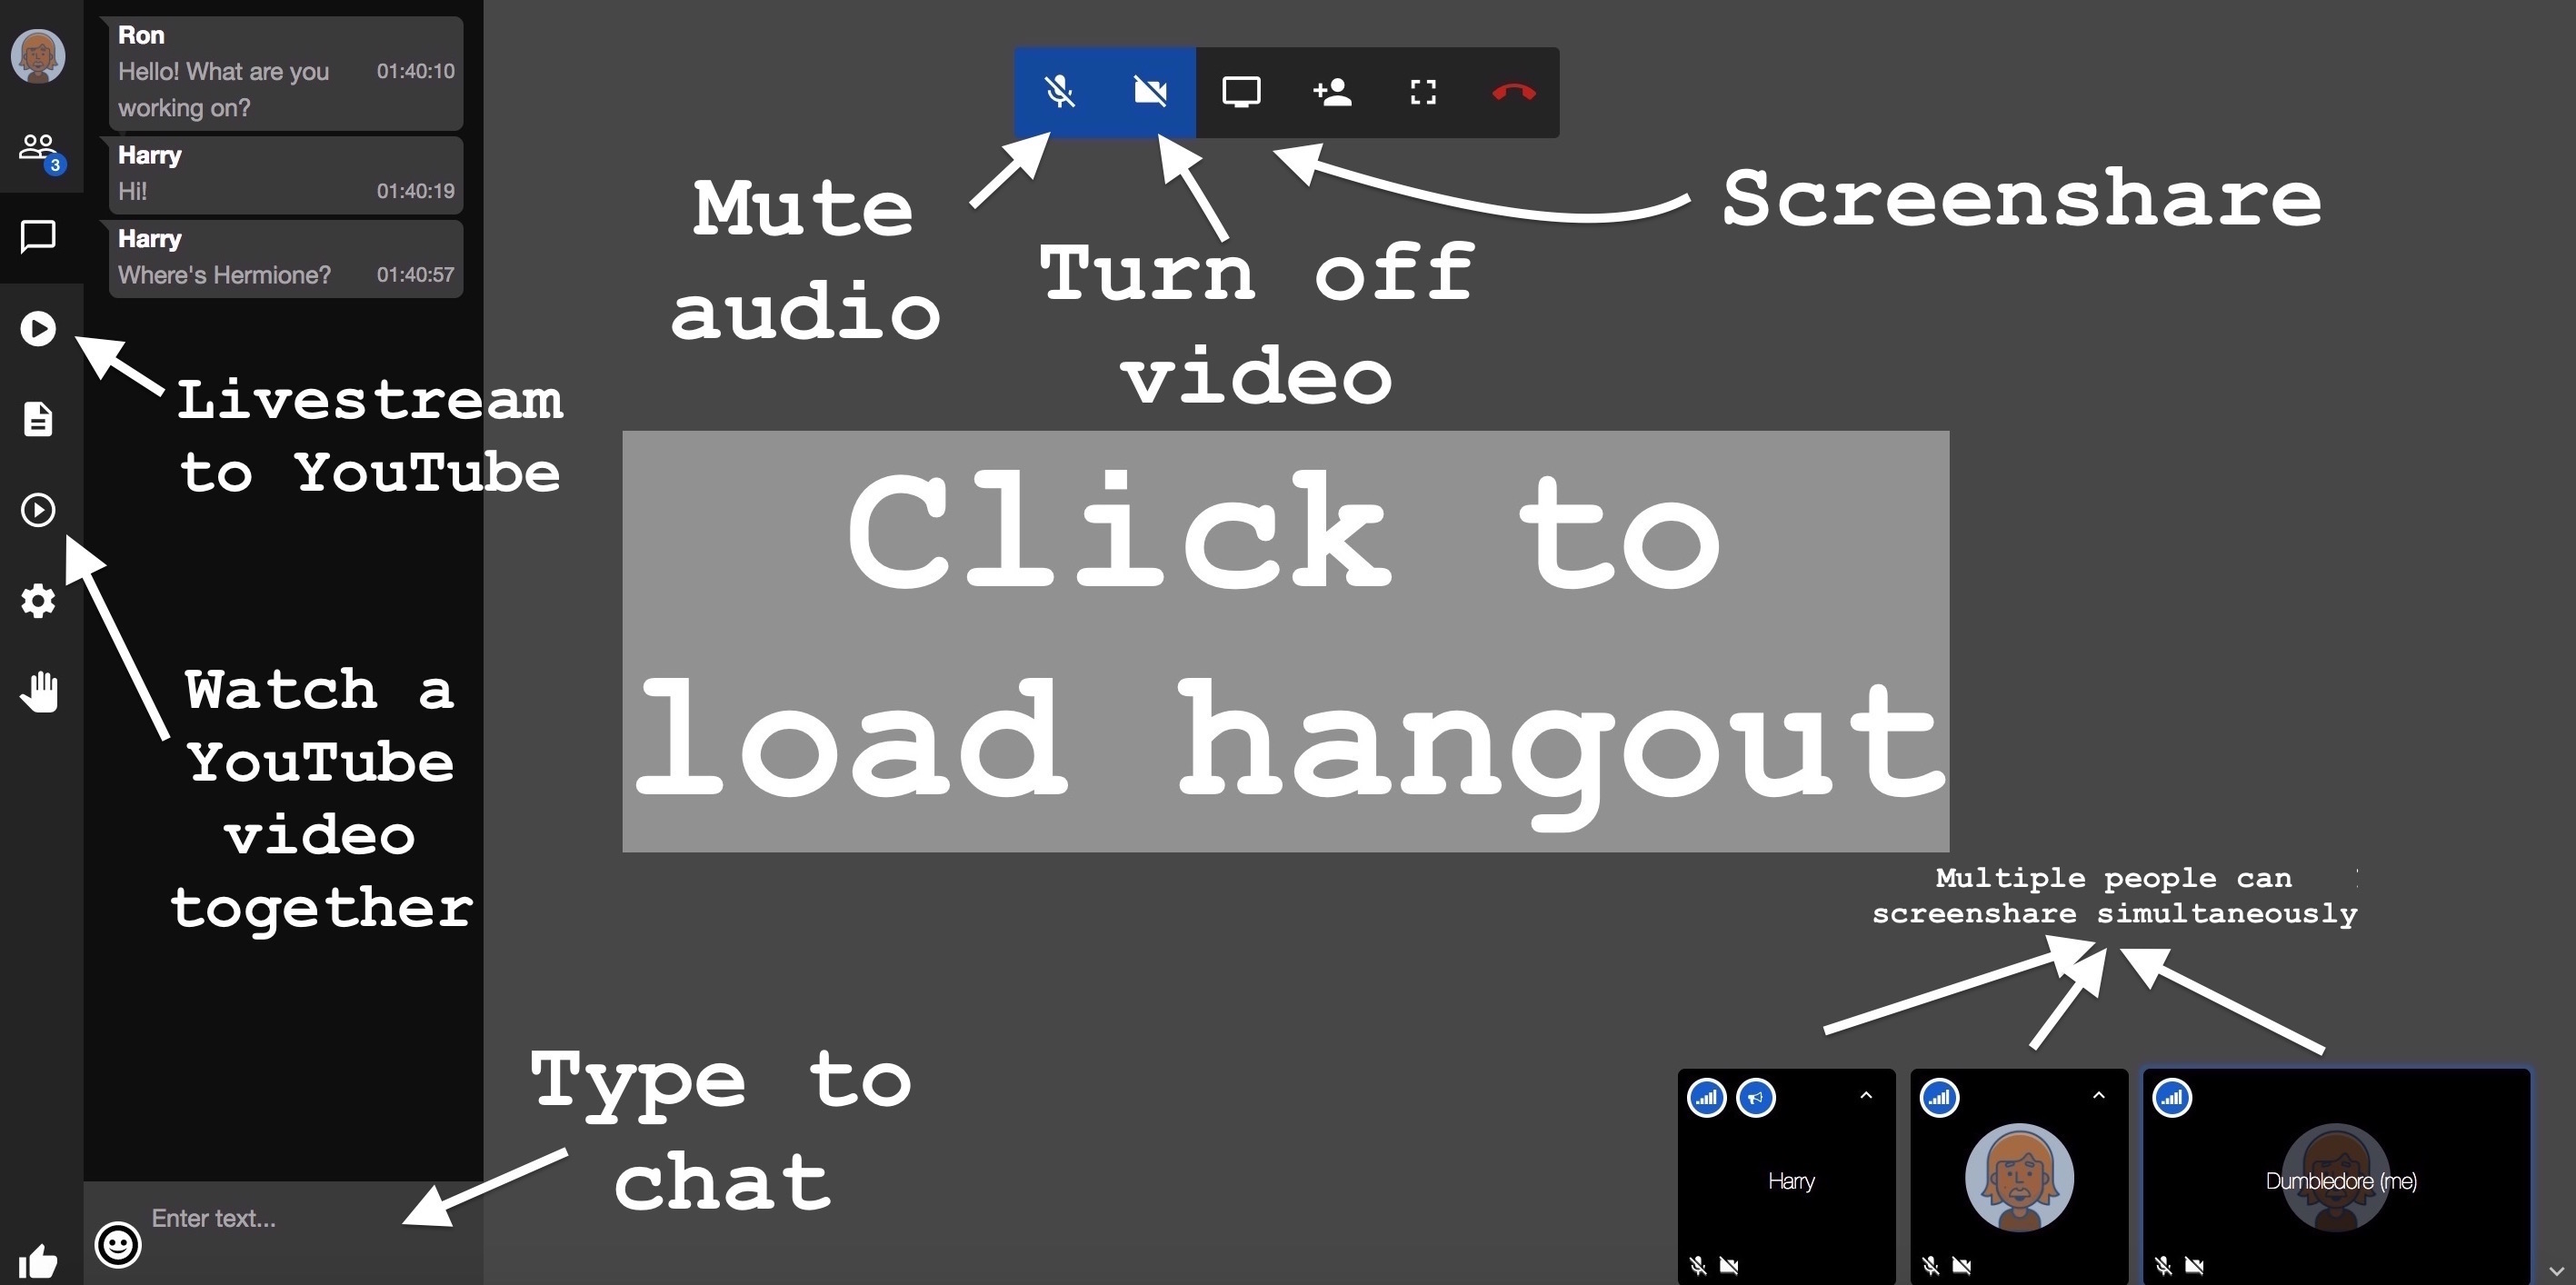
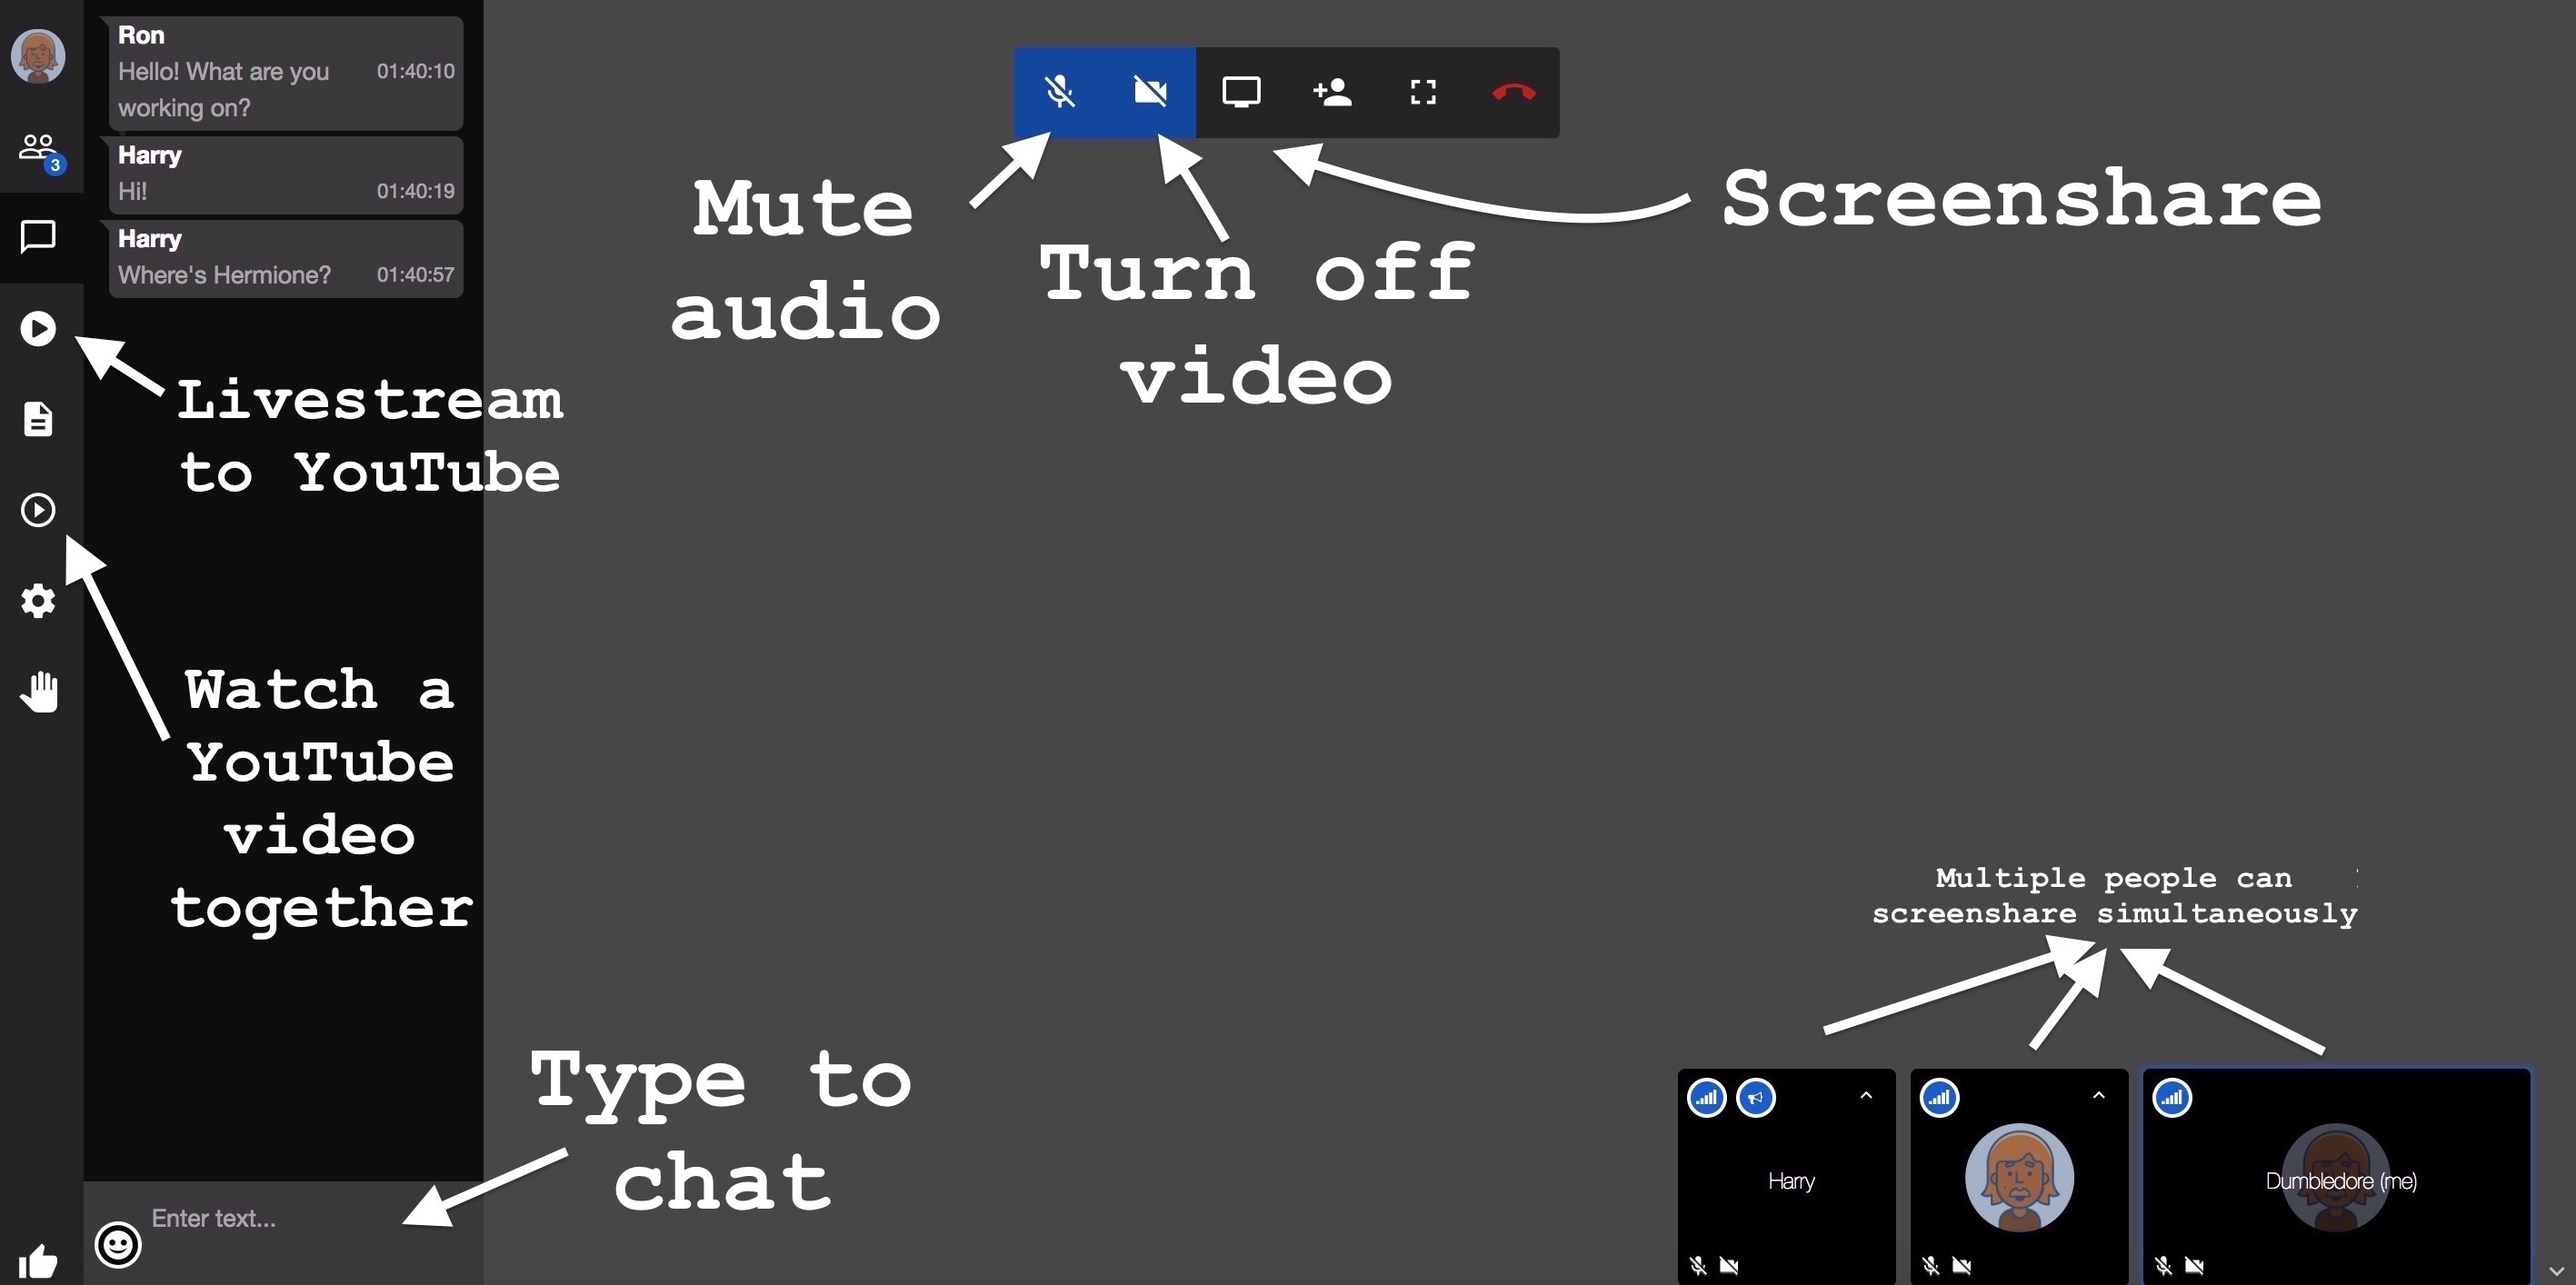
moar simplified redesign

Changed region(s): [[0.2174, 0.3112, 0.7763, 0.6846]]

diff --git a/client/templates/hangout/hangout.html b/client/templates/hangout/hangout.html
@@ -13,12 +13,18 @@
                       {{/if}}
                   {{/if}} <!-- ./if equals visibility false -->
 
+                  {{#if isHangoutInProgress start end}}
+                      <h5 class="in-progress"><span class="oval"></span> LIVE</h5>
+                  {{/if}}
+
                   {{topic}}  
 
                   {{#if views}}
                     <span class="view"><i class="fa fa-eye" aria-hidden="true" data-toggle="tooltip" title="Views" > </i> {{views}}</span>
                   {{/if}}
                   </h2>
+
+
 
                   <p class="status">
                     <i class="fa {{getHangoutTypeSign type}}"></i> {{type}} hangout <sup><a id="hangout-faq-popup"><i class="fa fa-question-circle"></i></a></sup> started by
@@ -42,6 +48,15 @@
                 {{> hangoutActionButtons }}
                     
                 <h3>Goals of hangout</h3>
+                {{#if hangoutOwner host.id}}
+                  <p class="pull-right">
+                    
+                  </p>
+                    {{else}}
+                      {{#if isInRole 'admin,moderator,volunteer' 'CB'}}
+                        <p class="pull-right"><a href="#" class="edit-hangout">Edit (M) <i class="fa fa-pencil-square-o" aria-hidden="true"></i></a></p>
+                      {{/if}}
+                {{/if}}
                 <p id="hangout-description" class="margin-1">
                     {{{formatDescription this}}}
                 </p>
@@ -68,15 +83,14 @@
 
           </div>
           <div class="col-md-9">
+                <p class="upcoming align-center margin-top-1 load-hangout">
+                    <i class="fa fa-dot-circle-o fa text-danger faa-burst animated"></i>{{upcomingTime start}}
+                </p>
               {{#if isAttending users}}
                   {{> hangoutFrame }}
               {{ else }}
               
-                <a class="{{#if currentUser}}{{# unless isHangoutCompleted end}} join-hangout {{/unless }} {{else}} continue-popup {{/if}}"><img src="/images/jitsi_guide_lp.jpg" width="100%" class="load-hangout-screenshot display-block centered margin-top-1"/></a>
-
-                {{# unless isHangoutCompleted end}} 
-                  <p class="align-center margin-top-1"><a class="join-hangout">Click to RSVP to this hangout</a></p>
-                {{/unless }}
+                <a class="{{#if currentUser}}{{# unless isHangoutCompleted end}} join-hangout {{/unless }} {{else}} continue-popup {{/if}}"><img src="/images/logo-circle-cropped.png" width="65%" class="load-hangout-screenshot display-block centered margin-top-1"/></a>
               {{/if}} 
           
             {{#if equals visibility false}}
@@ -109,9 +123,9 @@
                     {{/if}}
 
               {{else}}
-                {{# unless isHangoutCompleted end}}
+          <!--       {{# unless isHangoutCompleted end}}
                    <a class="btn btn-cb2 {{#if currentUser}} join-hangout {{else}} continue-popup {{/if}}">{{_ "join_in_session"}}</a>
-                {{/unless}}
+                {{/unless}} -->
               {{/if}}
 
             {{else}}
@@ -138,7 +152,7 @@
             
         {{/with}}
         {{else}}
-        
+
           {{> loading}}
          
         {{/if}}

diff --git a/client/templates/hangout/hangout_action_buttons.html b/client/templates/hangout/hangout_action_buttons.html
@@ -1,16 +1,13 @@
 <template name="hangoutActionButtons">
   <div class="hangout-action-buttons">
-                      {{#if isHangoutInProgress start end}}
-                          <h5 class="in-progress"><span class="oval"></span> LIVE</h5>
-                      {{/if}}
+
     {{# unless isHangoutCompleted end }}
-                <p class="upcoming align-center">
-                  <i class="fa fa-dot-circle-o fa text-danger faa-burst animated"></i>&nbsp;{{upcomingTime start}}
-                </p>
 
                     {{#if isAttending users}}
-                        <a class="btn btn-cb2 align-center btn-grey" disabled>{{_ "joined"}}</a>
-                        <a id="leave-hangout" class="btn btn-cb2 btn-danger">{{_ "leave"}}</a>
+                      <div id="attendance">
+                        <a id="joined-hangout" class="btn btn-cb2 align-center btn-grey" disabled>{{_ "joined"}}</a>
+                        <a id="leave-hangout" class="btn btn-cb2">{{_ "leave"}}</a>
+                      </div>
                     {{else}}
 
                         {{# unless isHangoutCompleted end}}
@@ -35,18 +32,19 @@
     {{/ unless }}
 
   <div class="hangout-action-buttons-other">
+    <a href="#" class="{{#if currentUser}} clone-hangout {{else}} continue-popup {{/if}} btn btn-cb2"><i class="fa fa-clone" aria-hidden="true"></i> Duplicate</a>
     {{#if hangoutOwner host.id}}
       <a href="#" class="edit-hangout btn btn-cb2">Edit Details</a>
-      <a href="#" class="delete-hangout btn btn-cb2"><i class="fa fa-trash-o" aria-hidden="true"></i> Delete</a>
+      <a href="#" class="delete-hangout btn btn-cb2"><i class="fa fa-trash-o" aria-hidden="true"></i> Cancel hangout</a>
     {{else}}
       {{#if isInRole 'admin,moderator,volunteer' 'CB'}}
-        <a href="#" class="edit-hangout btn btn-cb2">Edit Details<span class="label label-info">M</span> </a>
+          <a href="#" class="edit-hangout btn btn-cb2">Edit Details<span class="label label-info">M</span> </a>
       {{/if}}
       {{#if isInRole 'admin,moderator' 'CB'}}
         <a href="#" class="delete-hangout btn btn-cb2 btn-danger"><i class="fa fa-trash-o" aria-hidden="true"></i>&nbsp; Delete <span class="label label-info">M</span> </a>
       {{/if}}
     {{/if}}
-        <a href="#" class="{{#if currentUser}} clone-hangout {{else}} continue-popup {{/if}} btn btn-cb2"><i class="fa fa-clone" aria-hidden="true"></i> Duplicate</a>
+        
   </div>
 </div>
 </template>

diff --git a/client/templates/hangout/hangout-frame.html b/client/templates/hangout/hangout-frame.html
@@ -2,11 +2,12 @@
 
 <div id="hangout-button-wrapper">
   <p class="warning chrome-firefox-warning">Warning: Please load this page using Chrome <img src="/images/chrome.ico" width="25"/> or Firefox <img src="/images/firefox.ico" width="25"/> to avoid technical issues</p>
-  <p class="margin-top-1"><a class="load-hangout display-inline">{{_ "click_to_load_hangout"}}</a></p>
-  <img src="/images/click_to_load_hangout2.jpg" width="100%" class="load-hangout load-hangout-screenshot"/>
+  <img src="/images/logo-circle-cropped.png" width="65%" class="load-hangout load-hangout-screenshot"/>
+  <p class="margin-top-1 click-text"><a class="load-hangout display-inline">{{_ "click_to_load_hangout"}}</a></p>
+  
 </div>
 
-  <p class="align-center margin-top-1">If you're seeing a blank screen, <a href="https://meet.jit.si/cb{{_id}}" target="_blank">join here.</a></p>
+  <p class="align-center margin-top-1">If you're seeing a blank screen, <a href="https://meet.jit.si/cb{{_id}}" target="_blank">join here.</a> (New to Jitsi? Check out <a href="/images/codebuddies_jitsi_diagram.jpg" target="_blank">this diagram</a>.)</p>
   <div id="hangout-container"></div> 
   <span id="post_id" class="hide">{{_id}}</span>
 

diff --git a/client/css/_post.scss b/client/css/_post.scss
@@ -12,6 +12,9 @@
     font-family: $open-sans;
     @include font-face(200, 15px, normal, $black);
   }
+  p.upcoming {
+    @include font-face(700, 23px, bold, $black);
+  }
   .completed p {
     text-transform: none;
   }
@@ -21,6 +24,11 @@
     font-weight: 200;
     font-size: 16px;
     margin: 10px 0;
+  }
+  p.click-text {
+    @include font-face(700, 30px, normal, $cta-blue);
+    background-image: url('/images/logo-circle-cropped.png');
+    background-size: cover;
   }
   p.date-holder {
     color: $black;
@@ -41,7 +49,7 @@
   }
   h5.in-progress {
     display: block;
-    text-align: center;
+    text-align: left;
     margin-bottom: 10px;
   }
   .panel-heading {
@@ -146,5 +154,17 @@
   }
   .hangout-action-buttons {
     p { text-decoration: none;}
+    #attendance {
+      text-align: center;
+      a {
+        display: inline-block;
+      }
+      a#joined-hangout {
+        width: 35%;
+      }
+      a#leave-hangout {
+        width: 60%
+      }
+    }
   }
 }

diff --git a/client/templates/hangout/hangout.js b/client/templates/hangout/hangout.js
@@ -113,7 +113,7 @@ Template.hangout.events({
       }); //sweetAlert
 
   },
-  "click #create-hangout-popup": function() {
+  'click #create-hangout-popup': function() {
     if (!Meteor.userId()) {
       sweetAlert({
         title: TAPi18n.__("login_create_hangout_title"),
@@ -133,5 +133,16 @@ Template.hangout.events({
   },
   "click #hangout-faq-popup": function() {
     Modal.show('hangoutFAQModal');
+  },
+   'click .report-hangout': function(e, hangout) {
+
+    if (Meteor.userId()) {
+      const hangoutId = hangout.data._id;
+      Session.set('hangoutId', hangoutId);
+
+      Modal.show('reportHangoutModal');
+    }
+
   }
+
 });

diff --git a/client/templates/hangout/hangout_action_buttons.js b/client/templates/hangout/hangout_action_buttons.js
@@ -1,16 +1,6 @@
 import QuillEditor from '../../libs/QuillEditor';
 
 Template.hangoutActionButtons.events({
-  'click .report-hangout': function(e, hangout) {
-
-    if (Meteor.userId()) {
-      const hangoutId = hangout.data._id;
-      Session.set('hangoutId', hangoutId);
-
-      Modal.show('reportHangoutModal');
-    }
-
-  },
   'click .clone-hangout': function(e, hangout) {
 
     if (Meteor.userId()) {

diff --git a/client/css/_buttons.scss b/client/css/_buttons.scss
@@ -207,7 +207,7 @@ li.delete-hangout, li.edit-hangout {
         @include font-face(200, 16px, light, $black);
         background: transparent;
         border: 1px solid $black;
-        margin: 5px 0;
+        margin: 10px 0px 0px 0px;
       }
   }
 }
